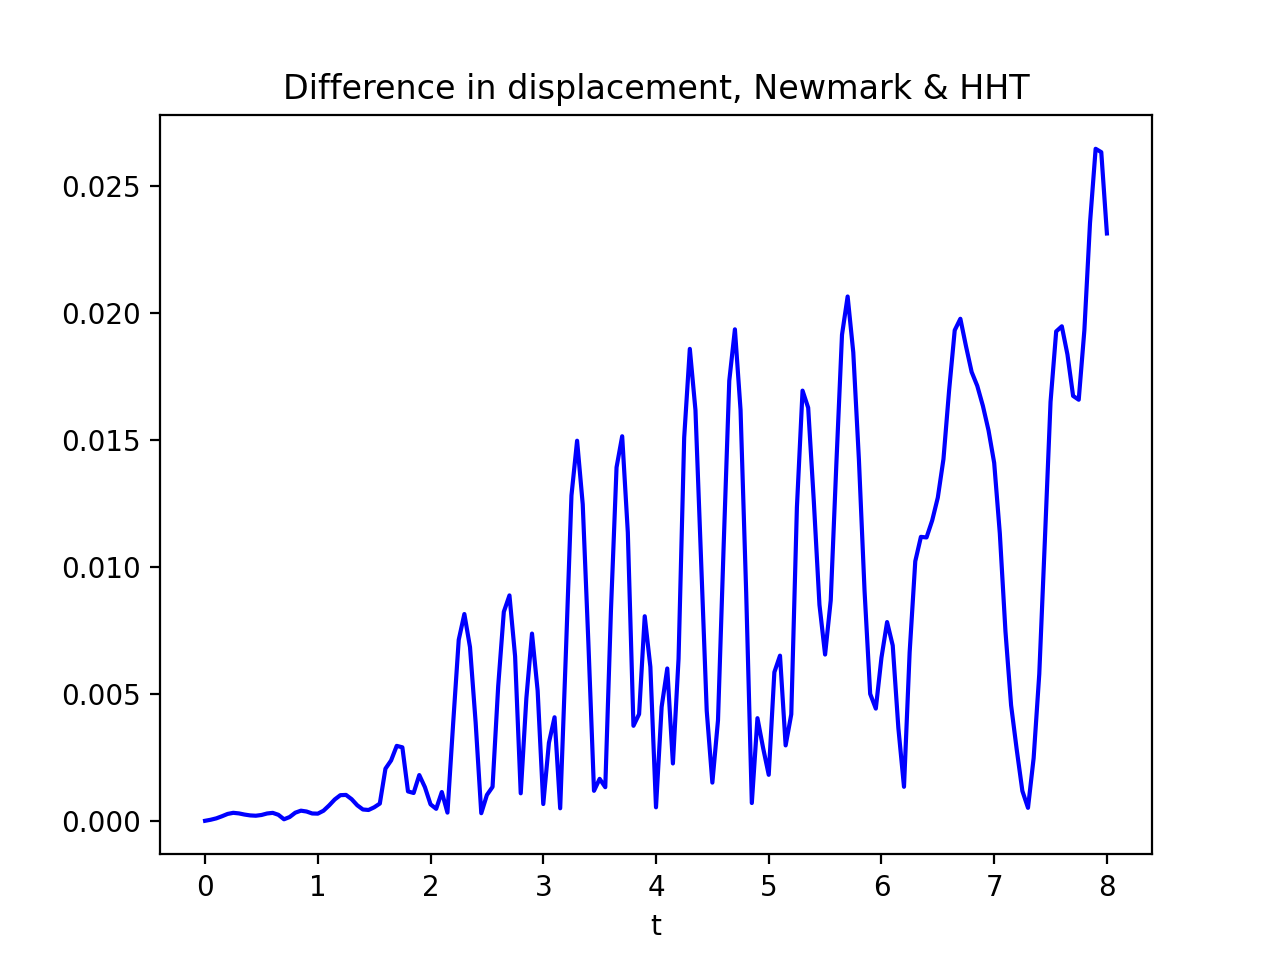
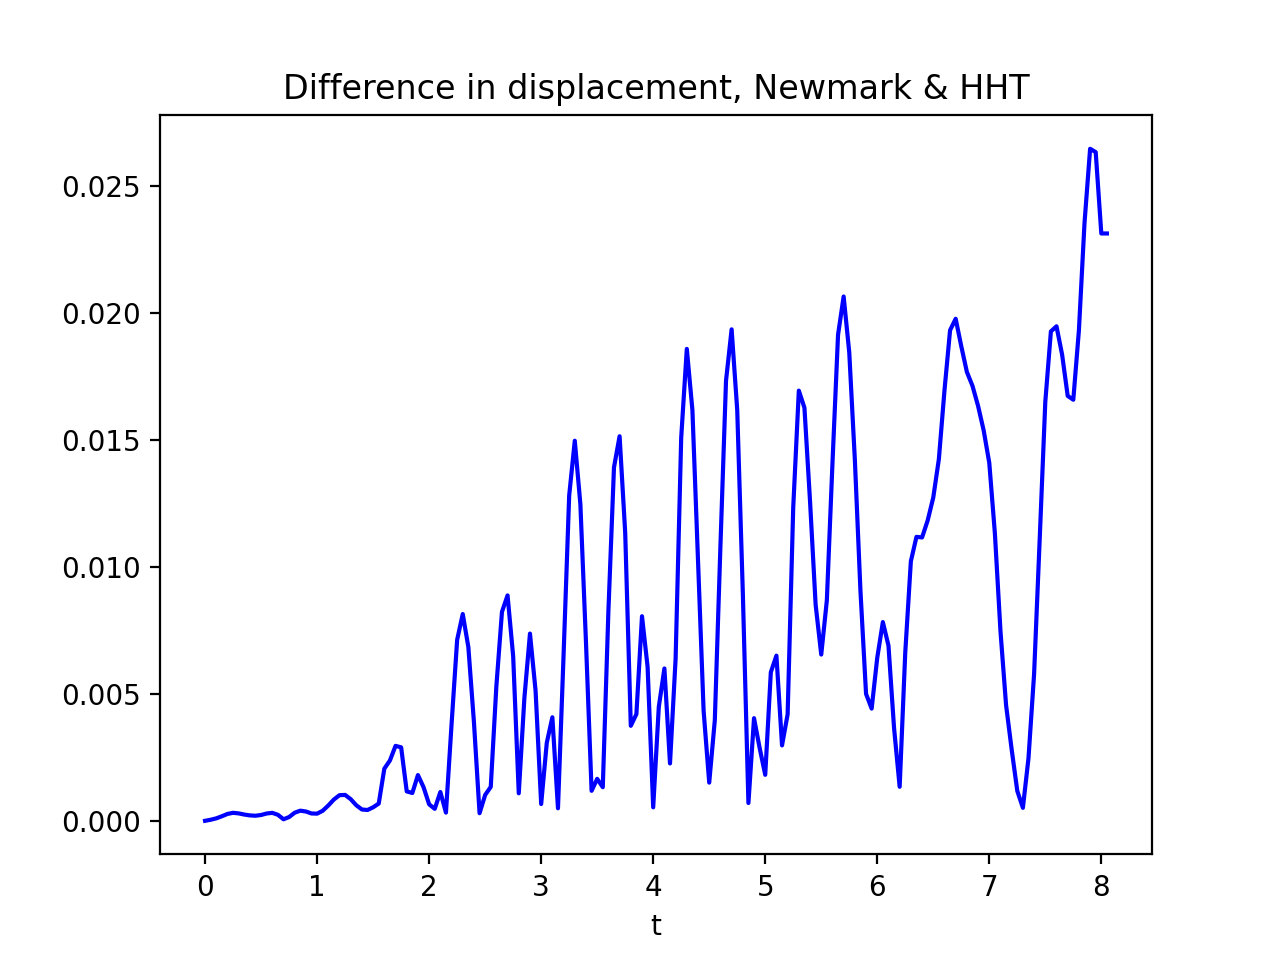
Amat only calculated when neccesary

diff --git a/Project3/Newmark.py b/Project3/Newmark.py
@@ -5,20 +5,19 @@ import scipy as sp
 
 
 class Explicit_Problem_2nd(Explicit_Problem):
-    def __init__(self, y0, yp0, Mmat, Cmat, Kmat, func):
+    def __init__(self, y0, Mmat, Cmat, Kmat, func):
         self.t0 = 0
-        self.y0 = np.hstack((y0, yp0))
+        self.y0 = y0
 
-        self.n = len(y0)
+        self.n = len(y0) // 2
         self.Mmat = Mmat
         self.Cmat = Cmat
         self.Kmat = Kmat
         self.func = func
 
     def rhs(self, t, y):
-        u = y[:self.n]
         up = y[self.n:]
-        upp = sp.sparse.linalg.spsolve(self.Mmat, self.Kmat @ u + self.Cmat @ up + self.func(t))
+        upp = sp.sparse.linalg.spsolve(self.Mmat, self.Kmat @ y[:self.n] + self.Cmat @ up + self.func(t))
         return np.hstack((up, upp))
 
 
@@ -41,30 +40,38 @@ class Explicit_2nd_Order(Explicit_ODE):
         self.options["h"] = float(new_h)
 
     def integrate(self, t, y, tf, opts):
-        u = y[:len(y) // 2]
-        up = y[len(y) // 2:]
-        upp = self.problem.rhs(t, y)[len(y) // 2:]
+        h = min([self._get_h(), abs(tf - t)])
+        u, up, upp = self.step_zero(t, y, h)
         self.statistics["nfcns"] += 1
         y_list = [y]
         t_list = [t]
-
-        h = min([self._get_h(), abs(tf - t)])
-        t = t + h
         for i in range(self.maxsteps):
+            t = t + h
             if t >= tf:
+                h = tf - t_list[-1]
+                u, up, upp = self.last_step(u, up, upp, h, tf)
+                self.statistics["nsteps"] += 1
+                t_list.append(t)
+                y_list.append(np.hstack((u, up)))
                 break
             u, up, upp = self.step(u, up, upp, h, t)
             self.statistics["nsteps"] += 1
-
             t_list.append(t)
             y_list.append(np.hstack((u, up)))
-            h = min([self._get_h(), abs(tf - t)])
-            t = t + h
-
+            h = self._get_h()
         else:
             raise Explicit_ODE_Exception('Final time not reached within maximum number of steps')
 
         return ID_PY_OK, t_list, y_list
+
+    def step_zero(self, t, y, h):
+        u = y[:len(y) // 2]
+        up = y[len(y) // 2:]
+        upp = self.problem.rhs(t, y)[len(y) // 2:]
+        return u, up, upp
+
+    def last_step(self, u, up, upp, h, t):
+        return self.step(u, up, upp, h, t)
 
 
 class Newmark_Exp(Explicit_2nd_Order):
@@ -87,25 +94,30 @@ class HHT(Explicit_2nd_Order):
         self.alpha = alpha
         self.beta = ((1 - alpha) / 2)**2
         self.gamma = 0.5 - alpha
+        self.gdb = self.gamma / self.beta
 
         self.Mmat = self.problem.Mmat
         self.Cmat = self.problem.Cmat
         self.Kmat = self.problem.Kmat
         self.func = self.problem.func
 
+    def step_zero(self, t, y, h):
+        self.Amat = self.Mmat / (self.beta * h**2) + self.Cmat * (self.gdb / h) + self.Kmat * (1 + self.alpha)
+        return Explicit_2nd_Order.step_zero(self, t, y, h)
+
     def step(self, u, up, upp, h, t):
-        gdb = self.gamma / self.beta
-        Amat = self.Mmat / (self.beta * h**2) + self.Cmat * (gdb / h) + self.Kmat * (1 + self.alpha)
-
-        term2 = self.Mmat @ (u / (self.beta * h**2) + up / (self.beta * h) + upp * (1 / (2 * self.beta) - 1))
-        term3 = self.Cmat @ (u * (gdb / h) - up * (1 - gdb) - upp * h * (1 - gdb / 2))
-        term4 = self.alpha * self.Kmat @ u
-
-        u_np1 = sp.sparse.linalg.spsolve(Amat, self.problem.func(t) + term2 + term3 + term4)
+        temp = self.Mmat @ (u / (self.beta * h**2) + up / (self.beta * h) + upp * (1 / (2 * self.beta) - 1))
+        temp += self.Cmat @ (u * (self.gdb / h) - up * (1 - self.gdb) - upp * h * (1 - self.gdb / 2))
+        temp += self.alpha * self.Kmat @ u
+        u_np1 = sp.sparse.linalg.spsolve(self.Amat, self.problem.func(t) + temp)
         self.statistics["nfcns"] += 1
-        up_np1 = ((u_np1 - u) / h) * gdb + up * (1 - gdb) + upp * h * (1 - gdb / 2)
+        up_np1 = ((u_np1 - u) / h) * self.gdb + up * (1 - self.gdb) + upp * h * (1 - self.gdb / 2)
         upp_np1 = (u_np1 - u) / (self.beta * h**2) - up / (self.beta * h) - upp * (1 / (2 * self.beta) - 1)
         return u_np1, up_np1, upp_np1
+
+    def last_step(self, u, up, upp, h, t):
+        self.Amat = self.Mmat / (self.beta * h**2) + self.Cmat * (self.gdb / h) + self.Kmat * (1 + self.alpha)
+        return self.step(u, up, upp, h, t)
 
 
 class Newmark(HHT):
@@ -113,10 +125,10 @@ class Newmark(HHT):
         HHT.__init__(self, problem, alpha=0)
         self.beta = beta
         self.gamma = gamma
+        self.gdb = self.gamma / self.beta
 
         if not (0.5 <= gamma <= 2 * beta):
             print("Method is not unconditionally stable.")
-
         if (gamma == 2 * beta == 0.5):
             print("Method is second order accurate.")
         else:

diff --git a/Project3/elastodyn.py b/Project3/elastodyn.py
@@ -104,14 +104,12 @@ class elastodynamic_beam:
 
         # right hand side
         self.External_forces_form = (inner(u, v) - inner(u, v)) * dx + inner(v, pvec) * ds
-
         self.F_ext = galerkinOperator(self.External_forces_form)
 
         self.ndofs = self.V.size
         self.F = np.zeros(self.V.size)
         self.fh = self.V.interpolate(dim * [0], name="fh")
         self.rh = self.V.interpolate(dim * [0], name="rh")
-
         self.F_ext(self.fh, self.rh)
 
         rh_np = self.rh.as_numpy
@@ -199,8 +197,7 @@ if __name__ == '__main__':
         return tt, disp_tip
 
     def doNewmark(plot=False):
-        beam_problem2 = Explicit_Problem_2nd(y0=np.zeros((beam_class.ndofs,)),
-                                             yp0=np.zeros((beam_class.ndofs,)),
+        beam_problem2 = Explicit_Problem_2nd(y0=np.zeros((2 * beam_class.ndofs,)),
                                              Mmat=beam_class.Mass_mat,
                                              Cmat=beam_class.Dampening_mat,
                                              Kmat=beam_class.Stiffness_mat,
@@ -217,8 +214,7 @@ if __name__ == '__main__':
         return tt, disp_tip
 
     def doHHT(plot=False):
-        beam_problem2 = Explicit_Problem_2nd(y0=np.zeros((beam_class.ndofs,)),
-                                             yp0=np.zeros((beam_class.ndofs,)),
+        beam_problem2 = Explicit_Problem_2nd(y0=np.zeros((2 * beam_class.ndofs,)),
                                              Mmat=beam_class.Mass_mat,
                                              Cmat=beam_class.Dampening_mat,
                                              Kmat=beam_class.Stiffness_mat,
@@ -252,11 +248,11 @@ if __name__ == '__main__':
         pl.xlabel('t')
         pl.savefig(filename, dpi=200)
 
-    tt_1, disp_tip_1 = doCVode(plot=False)
-    tt_2, disp_tip_2 = doNewmark(plot=False)
+    # tt_1, disp_tip_1 = doCVode(plot=False)
+    tt_2, disp_tip_2 = doNewmark(plot=True)
     tt_3, disp_tip_3 = doHHT(plot=False)
     # doCompare()
-    plotDiff(tt_2, disp_tip_1, disp_tip_2, "Difference in displacement, CVode & Newmark",
-                                           "Difference_CVode_Newmark.png")
+    # plotDiff(tt_2, disp_tip_1, disp_tip_2, "Difference in displacement, CVode & Newmark",
+                                        #    "Difference_CVode_Newmark.png")
     plotDiff(tt_2, disp_tip_2, disp_tip_3, "Difference in displacement, Newmark & HHT",
                                            "Difference_Newmark_HHT.png")
